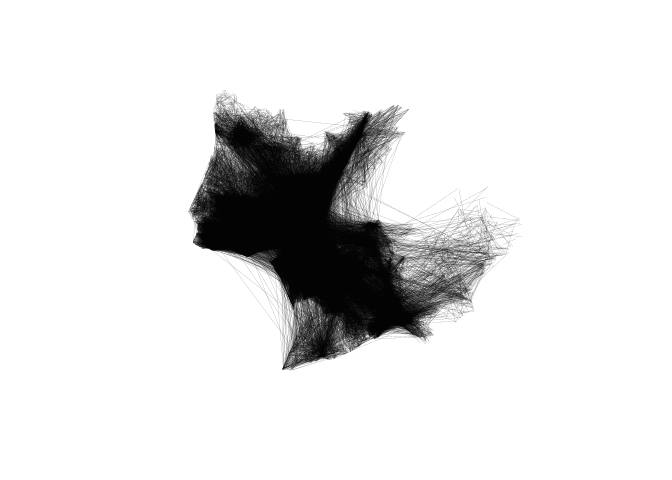
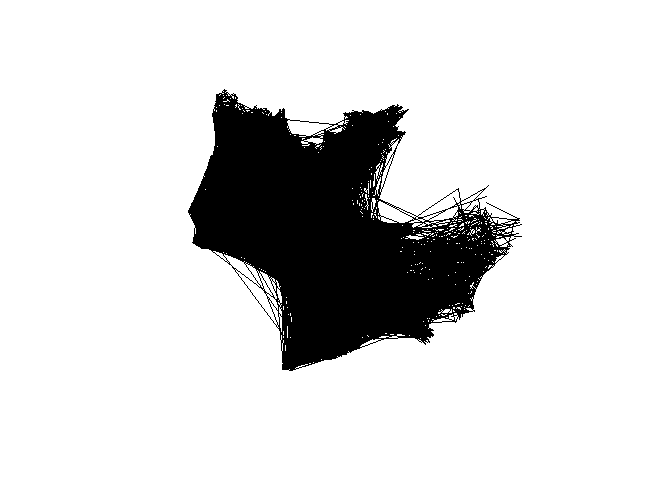
add cycling plans in LMA - readme
maybe too heavy to show. pointo to map with url.

Changed region(s): [[0.2812, 0.1875, 0.7812, 0.7812]]

diff --git a/README.md b/README.md
@@ -1,5 +1,6 @@
 
 <!-- README.md is generated from README.Rmd. Please edit that file -->
+<!-- README.md is generated from README.Rmd. Please edit that file -->
 
 # biclar
 
@@ -84,7 +85,7 @@ concentrate all the trips between areas.
 
 The OD datasets, before and after jittering, are shown below.
 
-<img src="README_files/figure-gfm/jitteredoverview-1.png" width="50%" /><img src="README_files/figure-gfm/jitteredoverview-2.png" width="50%" />
+<img src="man/figures/README-jitteredoverview-1.png" width="50%" /><img src="man/figures/README-jitteredoverview-2.png" width="50%" />
 
 <!-- figs not showing on pkgdown -->
 
@@ -112,6 +113,11 @@ and cycling by WHO.
 ## Cycling uptake in LMA and by Municipality
 
 ## Comparision with the cycling network plans by Municipality
+
+Compare the modeled cycling networks (segments overlapping) with
+expansion plans, by municipality.
+
+<img src="man/figures/README-unnamed-chunk-4-1.png" width="100%" />
 
 # References
 
